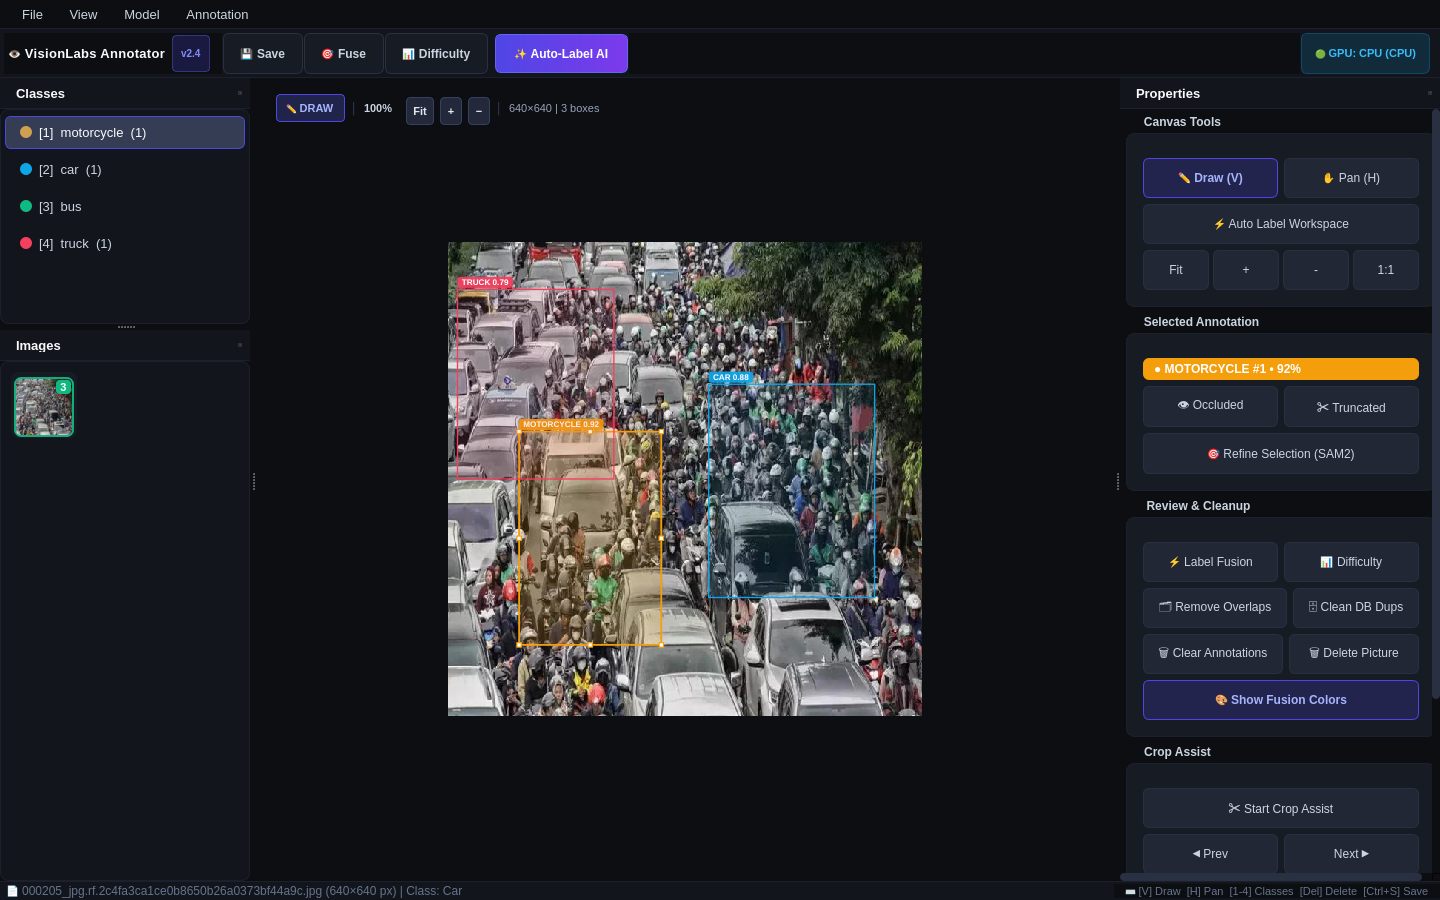
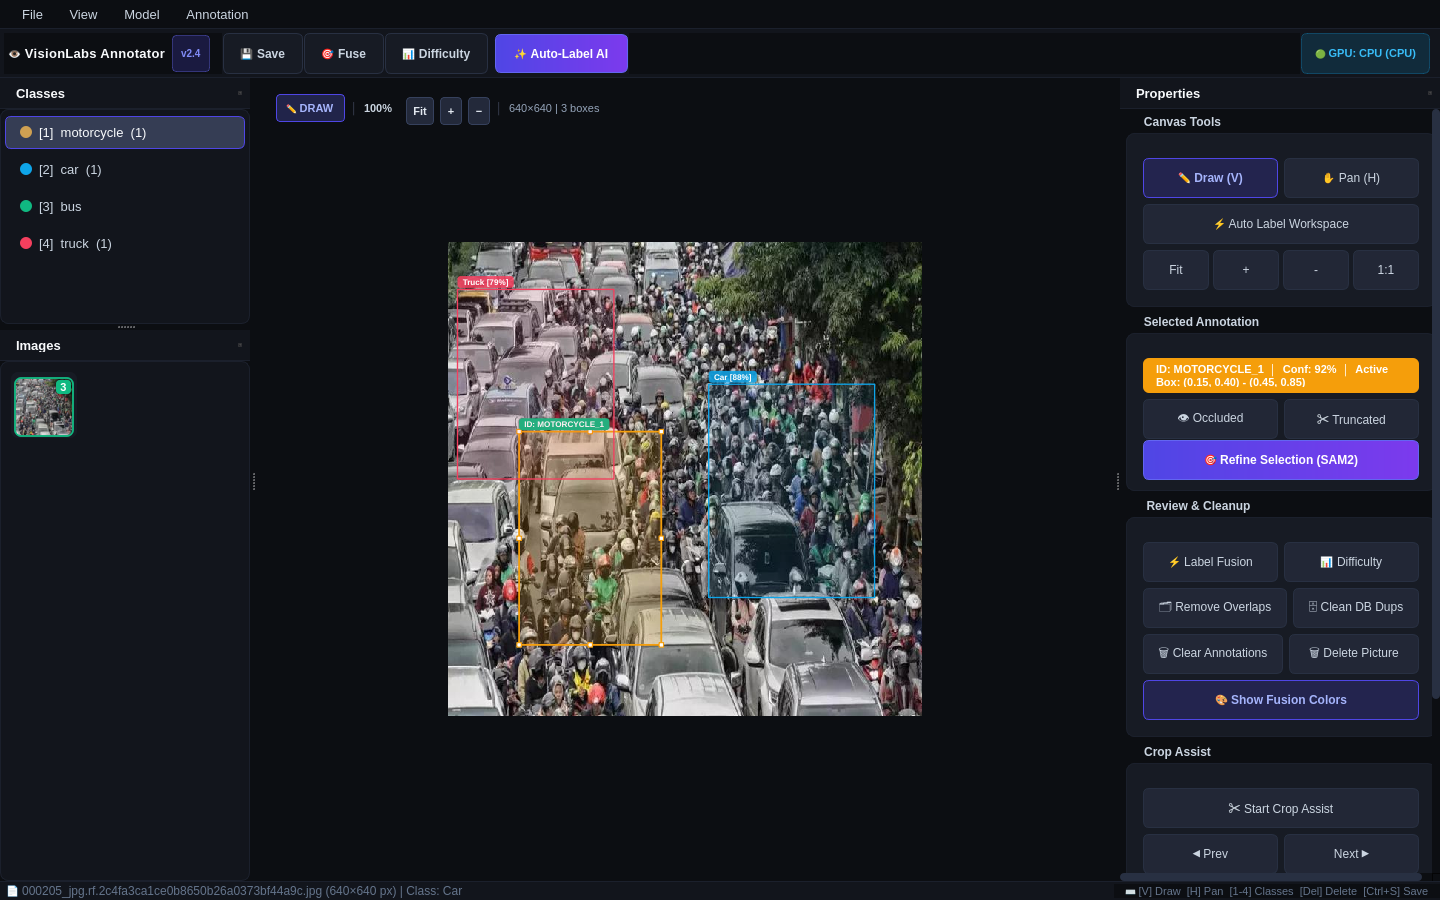
feat(ui): refine Option 4 bounding box badges, coordinates readout, and SAM2 gradient styling

diff --git a/app/ui/canvas/annotation_canvas.py b/app/ui/canvas/annotation_canvas.py
@@ -40,6 +40,7 @@ class AnnotationRectItem(QGraphicsRectItem):
         color_hex: str = "#0ea5e9",
         status_text: str = "",
         is_selected: bool = False,
+        annotation_id: object = None,
     ) -> None:
         super().__init__(rect)
         self.class_name = class_name
@@ -47,6 +48,8 @@ class AnnotationRectItem(QGraphicsRectItem):
         self.color_hex = color_hex
         self.status_text = status_text
         self.is_selected = is_selected
+        self.annotation_id = annotation_id
+
 
     def set_selected_visual(self, selected: bool) -> None:
         if self.is_selected != selected:
@@ -98,15 +101,22 @@ class AnnotationRectItem(QGraphicsRectItem):
                 )
 
         # 4. Pill Label Badge above or inside top-left of box
-        conf_str = f" {self.confidence:.2f}" if self.confidence is not None else ""
-        status_suffix = f" [{self.status_text}]" if self.status_text else ""
-        label_text = f" {self.class_name.upper()}{conf_str}{status_suffix} "
+        if self.is_selected:
+            ann_id_str = str(self.annotation_id)[:6] if self.annotation_id else "1"
+            label_text = f" ID: {self.class_name.upper()}_{ann_id_str} "
+            badge_bg = QColor("#10b981")
+        else:
+            conf_str = f" [{int(self.confidence * 100)}%]" if self.confidence is not None else ""
+            status_suffix = f" [{self.status_text}]" if self.status_text else ""
+            label_text = f" {self.class_name.capitalize()}{conf_str}{status_suffix} "
+            badge_bg = QColor(base_color)
+            badge_bg.setAlpha(220)
 
         font = QFont("-apple-system, Inter, BlinkMacSystemFont, sans-serif", 8, QFont.Weight.Bold)
         painter.setFont(font)
         fm = painter.fontMetrics()
-        text_w = fm.horizontalAdvance(label_text) + 6
-        text_h = fm.height() + 3
+        text_w = fm.horizontalAdvance(label_text) + 8
+        text_h = fm.height() + 4
 
         # Position label above box if space, otherwise inside top-left
         label_top = rect.top() - text_h - 2
@@ -115,15 +125,14 @@ class AnnotationRectItem(QGraphicsRectItem):
         label_rect = QRectF(rect.left(), label_top, text_w, text_h)
 
         # Draw badge pill background
-        badge_bg = QColor(base_color)
-        badge_bg.setAlpha(235)
         painter.setBrush(QBrush(badge_bg))
         painter.setPen(Qt.PenStyle.NoPen)
-        painter.drawRoundedRect(label_rect, 3.5, 3.5)
+        painter.drawRoundedRect(label_rect, 4.0, 4.0)
 
         # Draw badge text
         painter.setPen(QColor("#ffffff"))
         painter.drawText(label_rect, Qt.AlignmentFlag.AlignCenter, label_text)
+
 
         painter.restore()
 
@@ -430,7 +439,9 @@ class AnnotationCanvas(QGraphicsView):
                 color_hex=color,
                 status_text=status_text,
                 is_selected=False,
+                annotation_id=annotation.annotation_id,
             )
+
             item.setToolTip(
                 f"{annotation.class_name} ({annotation.confidence or 1.0:.2f}){suffix}"
             )

diff --git a/app/ui/main_window.py b/app/ui/main_window.py
@@ -1381,18 +1381,21 @@ class MainWindow(QMainWindow):
             return
 
         ann_id_short = (
-            str(annotation.annotation_id)[:8]
+            str(annotation.annotation_id)[:6]
             if annotation.annotation_id
-            else ""
+            else "1"
         )
         color = AnnotationCanvas.CLASS_COLORS.get(annotation.class_name, "#0ea5e9")
-        conf_str = f" • {annotation.confidence * 100:.0f}%" if annotation.confidence is not None else ""
+        conf_str = f"{annotation.confidence * 100:.0f}%" if annotation.confidence is not None else "100%"
+        box = annotation.box
         self._selection_info_label.setText(
-            f"● {annotation.class_name.upper()} #{ann_id_short}{conf_str}"
+            f"ID: {annotation.class_name.upper()}_{ann_id_short}  │  Conf: {conf_str}  │  Active\n"
+            f"Box: ({box.left:.2f}, {box.top:.2f}) - ({box.right:.2f}, {box.bottom:.2f})"
         )
+
         self._selection_info_label.setStyleSheet(
-            f"color: #ffffff; background: {color}; font-size: 12px; font-weight: 700; "
-            f"padding: 4px 8px; border-radius: 6px;"
+            f"color: #ffffff; background: {color}; font-size: 11px; font-weight: 700; "
+            f"padding: 6px 10px; border-radius: 6px;"
         )
         if hasattr(self, "_occluded_btn"):
             self._occluded_btn.blockSignals(True)
@@ -1406,6 +1409,11 @@ class MainWindow(QMainWindow):
             self._truncated_btn.blockSignals(False)
         if hasattr(self, "_refine_sam2_btn"):
             self._refine_sam2_btn.setEnabled(True)
+            self._refine_sam2_btn.setStyleSheet(
+                "background: qlineargradient(x1:0, y1:0, x2:1, y2:0, stop:0 #4f46e5, stop:1 #7c3aed); "
+                "color: #ffffff; font-weight: 700; font-size: 12px; border-radius: 6px; padding: 6px 12px; border: 1px solid #6366f1;"
+            )
+
 
     def _add_property_action(self, group: str, action: QAction) -> None:
         """Add an action to its grouped tool section in the Properties dock."""
